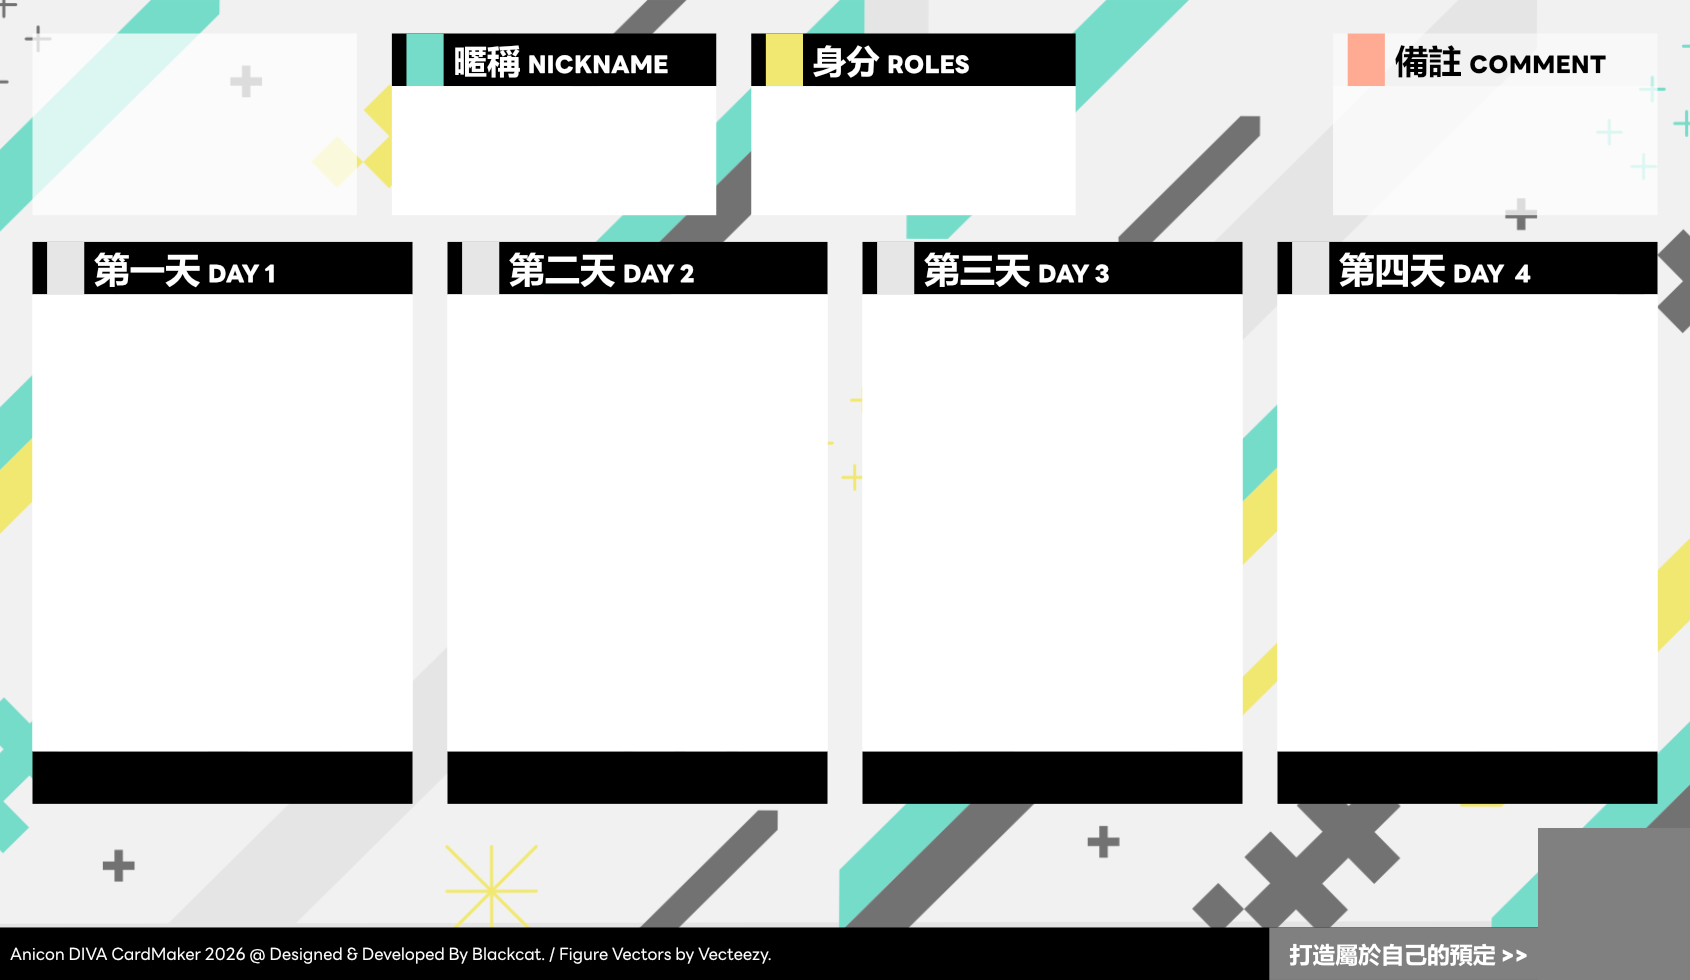
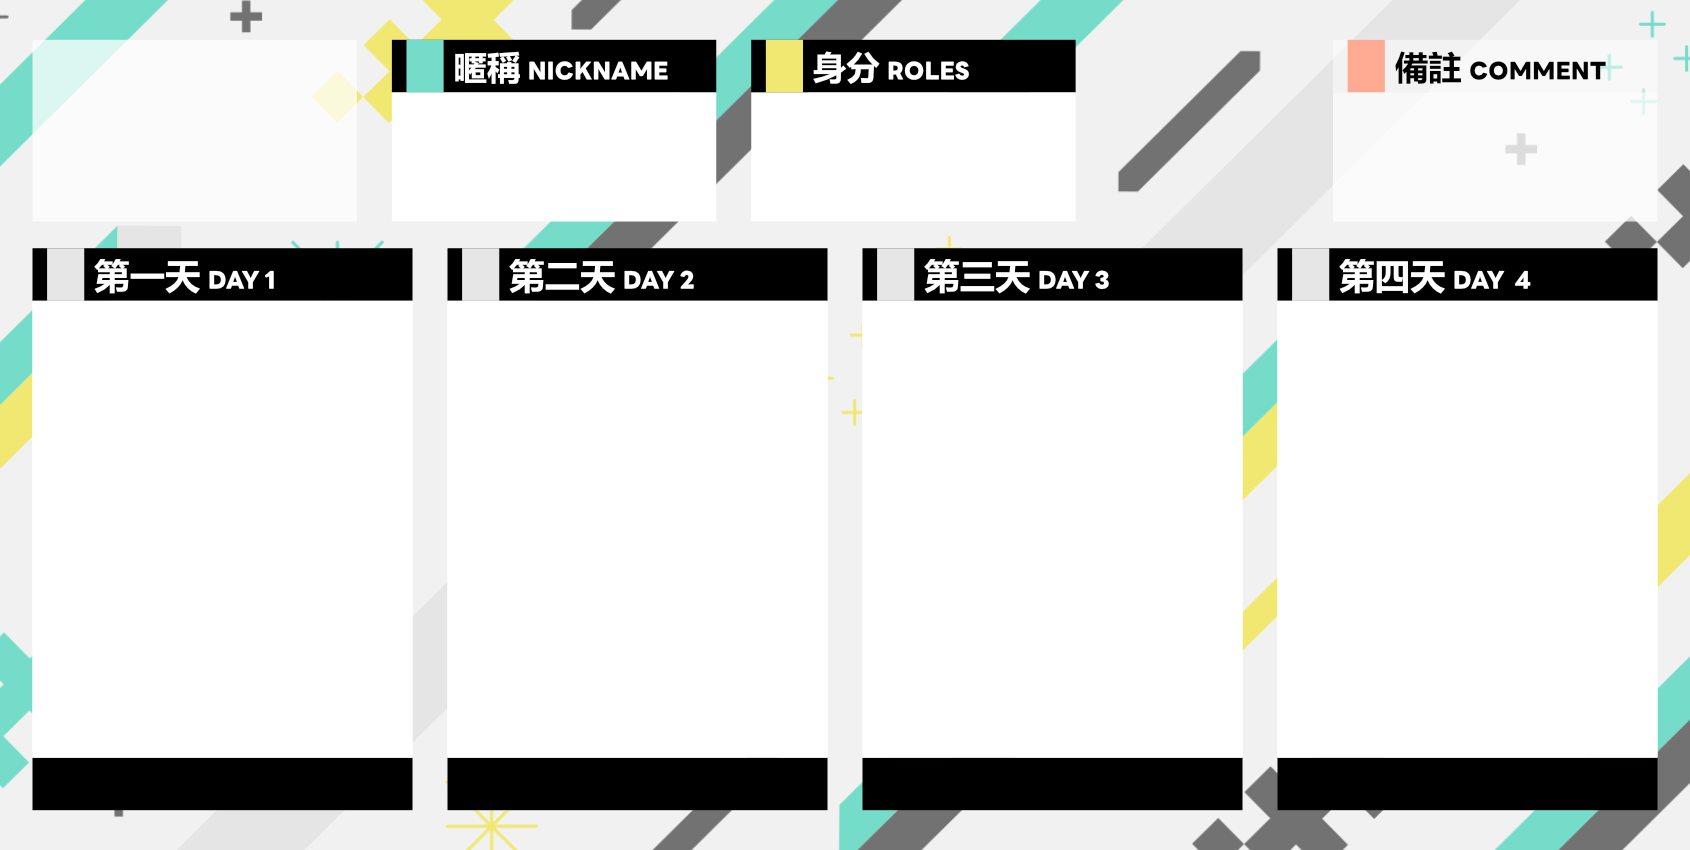
關閉QRCode顯示，更新底圖，並調整底圖顯示邏輯

diff --git a/src/models/cardTemplates.js b/src/models/cardTemplates.js
@@ -10,9 +10,9 @@ export const CARD_TEMPLATES = {
     // 畫布配置
     canvas: {
       width: 1220,
-      height: 850,
+      height: 700,
       downloadWidth: 1220,
-      downloadHeight: 850
+      downloadHeight: 700
     },
     // 圖片上傳限制
     upload: {
@@ -30,7 +30,7 @@ export const CARD_TEMPLATES = {
         key: 'd1',
         label: '第一天',
         x: 390.3,
-        y: 91.5,
+        y: 83.6,
         width: 439.5,
         height: 532.7
       }
@@ -47,12 +47,12 @@ export const CARD_TEMPLATES = {
       nickname: {
         fontSize: 36,
         x: 193.1,
-        y: 395.55
+        y: 387.75
       },
       category: {
         fontSize: 36,
         x: 193.1,
-        y: 612.25
+        y: 604.45
       },
       message: {
         fontSize: 30,
@@ -63,7 +63,7 @@ export const CARD_TEMPLATES = {
       dateRole: {
         fontSize: 26,
         x: 610.05,
-        y: 650.5
+        y: 642.7
       }
     }
   },
@@ -73,9 +73,9 @@ export const CARD_TEMPLATES = {
     // 畫布配置
     canvas: {
       width: 1700,
-      height: 850,
+      height: 700,
       downloadWidth: 1700,
-      downloadHeight: 850
+      downloadHeight: 700
     },
     // 圖片上傳限制
     upload: {
@@ -92,16 +92,16 @@ export const CARD_TEMPLATES = {
       {
         key: 'd1',
         label: '第一天',
-        x: 390.8,
-        y: 87.3,
+        x: 393,
+        y: 83.6,
         width: 439.5,
         height: 532.7
       },
       {
         key: 'd2',
         label: '第二天',
-        x: 865.3,
-        y: 87.3,
+        x: 867.5,
+        y: 83.6,
         width: 439.5,
         height: 532.7
       }
@@ -118,12 +118,12 @@ export const CARD_TEMPLATES = {
       nickname: {
         fontSize: 36,
         x: 193.1,
-        y: 395.55
+        y: 387.75
       },
       category: {
         fontSize: 36,
         x: 193.1,
-        y: 612.25
+        y: 604.45
       },
       message: {
         fontSize: 30,
@@ -134,7 +134,7 @@ export const CARD_TEMPLATES = {
       dateRole: {
         fontSize: 26,
         x: 610.05,
-        y: 650.5
+        y: 642.7
       }
     }
   },
@@ -144,9 +144,9 @@ export const CARD_TEMPLATES = {
     // 畫布配置
     canvas: {
       width: 1470,
-      height: 980,
+      height: 850,
       downloadWidth: 1470,
-      downloadHeight: 980
+      downloadHeight: 850
     },
     // 圖片上傳限制
     upload: {
@@ -164,7 +164,7 @@ export const CARD_TEMPLATES = {
         key: 'd1',
         label: '第一天',
         x: 38.8,
-        y: 298.6,
+        y: 300.8,
         width: 439.5,
         height: 456.7
       },
@@ -172,7 +172,7 @@ export const CARD_TEMPLATES = {
         key: 'd2',
         label: '第二天',
         x: 513.3,
-        y: 298.6,
+        y: 300.8,
         width: 439.5,
         height: 456.7
       },
@@ -180,7 +180,7 @@ export const CARD_TEMPLATES = {
         key: 'd3',
         label: '第三天',
         x: 991.7,
-        y: 298.6,
+        y: 300.8,
         width: 439.5,
         height: 456.7
       }
@@ -191,29 +191,29 @@ export const CARD_TEMPLATES = {
       title: {
         fontSize: 36,
         x: 201,
-        centerY: 128.45,
+        centerY: 130.65,
         lineHeight: 38
       },
       nickname: {
         fontSize: 36,
         x: 557,
-        y: 154.75,
+        y: 156.95,
       },
       category: {
         fontSize: 36,
         x: 913,
-        y: 154.75,
+        y: 156.95,
       },
       message: {
         fontSize: 30,
         x: 1269,
-        centerY: 154.75,
+        centerY: 156.95,
         lineHeight: 36
       },
       dateRole: {
         fontSize: 26,
-        x: 258.55,
-        y: 781.6
+        x: 172.5,
+        y: 783.9
       }
     }
   },
@@ -223,9 +223,9 @@ export const CARD_TEMPLATES = {
     // 畫布配置
     canvas: {
       width: 1690,
-      height: 980,
+      height: 850,
       downloadWidth: 1690,
-      downloadHeight: 980
+      downloadHeight: 850
     },
     // 圖片上傳限制
     upload: {
@@ -243,7 +243,7 @@ export const CARD_TEMPLATES = {
         key: 'd1',
         label: '第一天',
         x: 32.5,
-        y: 294.5,
+        y: 300.8,
         width: 380,
         height: 456.7
       },
@@ -251,7 +251,7 @@ export const CARD_TEMPLATES = {
         key: 'd2',
         label: '第二天',
         x: 447.5,
-        y: 294.5,
+        y: 300.8,
         width: 380,
         height: 456.7
       },
@@ -259,7 +259,7 @@ export const CARD_TEMPLATES = {
         key: 'd3',
         label: '第三天',
         x: 862.5,
-        y: 294.5,
+        y: 300.8,
         width: 380,
         height: 456.7
       },
@@ -267,7 +267,7 @@ export const CARD_TEMPLATES = {
         key: 'd4',
         label: '第四天',
         x: 1277.5,
-        y: 294.5,
+        y: 300.8,
         width: 380,
         height: 456.7
       }
@@ -277,19 +277,19 @@ export const CARD_TEMPLATES = {
       fontFamily: 'LINESeedTW, Arial, Helvetica, sans-serif',
       title: {
         fontSize: 36,
-        x: 194.7,
-        centerY: 124.35,
+        x: 195,
+        centerY: 130.65,
         lineHeight: 38
       },
       nickname: {
         fontSize: 36,
-        x: 544.1,
-        y: 150.65,
+        x: 554.1,
+        y: 156.95,
       },
       category: {
         fontSize: 36,
         x: 913.4,
-        y: 150.65,
+        y: 156.95,
       },
       message: {
         fontSize: 30,
@@ -300,7 +300,7 @@ export const CARD_TEMPLATES = {
       dateRole: {
         fontSize: 26,
         x: 222.5,
-        y: 777.6
+        y: 783.9
       }
     }
   }

diff --git a/src/components/CardMaker.jsx b/src/components/CardMaker.jsx
@@ -116,10 +116,11 @@ const CardMaker = () => {
   // 當資料變化時重新渲染
   useEffect(() => {
     // 預設開啟 QR Code 顯示
+    // 2026.4.24 Blackcat: 關閉QRCode顯示，部分臉書社團對於宣傳有些疑慮
     if (formData.showQRCode === undefined || formData.showQRCode === null) {
-      updateFormData('showQRCode', true);
+      updateFormData('showQRCode', false);
     }
-
+    
     // 如果沒有網址或網址為空，則設定為當前網址
     if (!formData.websiteUrl || formData.websiteUrl.trim() === '') {
       resetToCurrentUrl();
@@ -144,7 +145,7 @@ const CardMaker = () => {
             </h2>
 
             <div className="mb-6">
-              <div className="grid grid-cols-3 gap-2 rounded-lg bg-gray-100 p-1" role="tablist" aria-label="內容設定分頁">
+              <div className="grid grid-cols-2 gap-2 rounded-lg bg-gray-100 p-1" role="tablist" aria-label="內容設定分頁">
                 <button
                   type="button"
                   role="tab"
@@ -166,17 +167,6 @@ const CardMaker = () => {
                   }`}
                 >
                   預定資訊
-                </button>
-                <button
-                  type="button"
-                  role="tab"
-                  aria-selected={activeSettingsTab === 'social'}
-                  onClick={() => setActiveSettingsTab('social')}
-                  className={`rounded-md px-3 py-2 text-sm font-medium transition-all ${
-                    activeSettingsTab === 'social' ? 'bg-white text-gray-900 shadow-sm' : 'text-gray-600 hover:bg-white/70'
-                  }`}
-                >
-                  社群資訊
                 </button>
               </div>
             </div>
@@ -249,6 +239,17 @@ const CardMaker = () => {
                         className="w-4 h-4 text-blue-600 bg-gray-100 border-gray-300 focus:ring-blue-500"
                       />
                       <span className="ml-2 text-sm font-medium text-gray-700">官方</span>
+                    </label>
+                    <label className="flex items-center cursor-pointer">
+                      <input
+                        type="radio"
+                        name="category"
+                        value="其他"
+                        checked={formData.category === '其他'}
+                        onChange={(e) => updateFormData('category', e.target.value)}
+                        className="w-4 h-4 text-blue-600 bg-gray-100 border-gray-300 focus:ring-blue-500"
+                      />
+                      <span className="ml-2 text-sm font-medium text-gray-700">其他</span>
                     </label>
                   </div>
                 </div>
@@ -330,14 +331,6 @@ const CardMaker = () => {
                 )}
 
                 {activeSlot && renderDaySlot(activeSlot)}
-              </>
-            )}
-
-            {activeSettingsTab === 'social' && (
-              <>
-                <div className="mb-4">
-                  <p>TODO</p>
-                </div>
               </>
             )}
 

diff --git a/src/components/Copyright.jsx b/src/components/Copyright.jsx
@@ -8,7 +8,7 @@ const Copyright = () => {
         {/* 版權聲明 */}
         <p>AniconDIVA CardMaker 2026 @ Designed & Developed By Blackcat.</p>
         <p href="https://www.vecteezy.com/free-vector/figure" class="text-xs">Figure Vectors by Vecteezy.</p>
-        <hr />
+        <hr className="mb-2" />
         {/* GitHub 連結 */}
         <a href="https://github.com/minexo79/coser-card-maker" target="_blank" rel="noopener noreferrer">
           <img src="/github.svg" alt="GitHub" className="inline-block w-6 h-6" />

diff --git a/src/hooks/useCardMaker.js b/src/hooks/useCardMaker.js
@@ -84,7 +84,7 @@ export const useCardMaker = () => {
     nickname: '',
     message: '',
     category: 'COSER',
-    showQRCode: true,
+    showQRCode: false,
     websiteUrl: ''
   });
 
